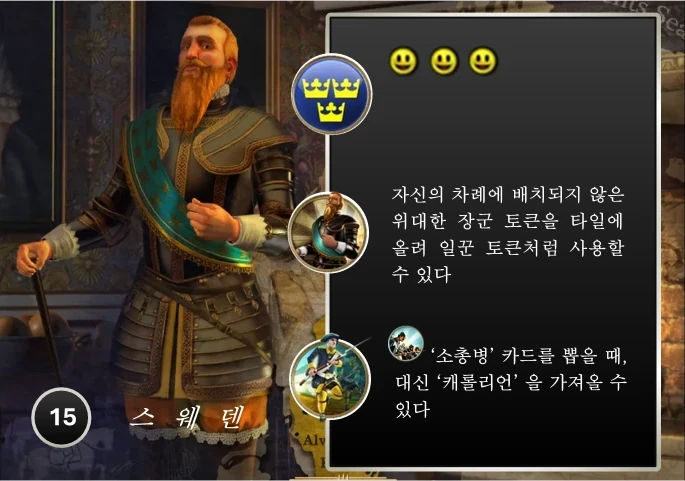
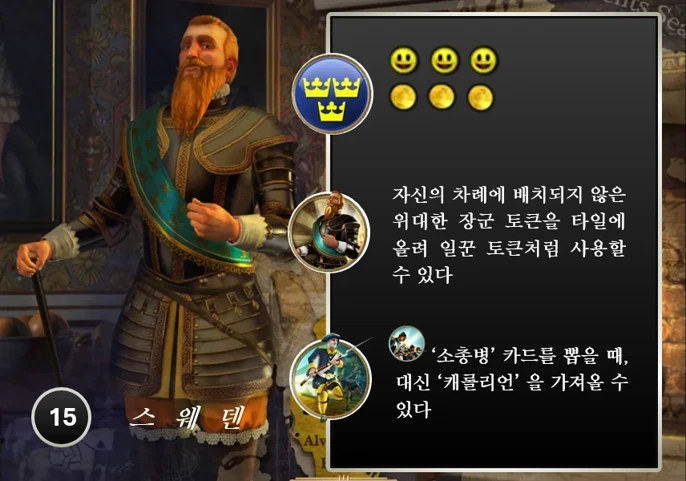
훈족 행복 4, 스웨덴 금 3, 오스만 과학 1, 훈족·스웨덴·오스만 문명 카드 교체
Claude-Session: https://claude.ai/code/session_01RAyYJg3yqsP1EQBtC7udPM

diff --git a/docs/rules.md b/docs/rules.md
@@ -746,12 +746,12 @@
   잉카       20        4      식량 1,   산 타일을 식량    투석병사 (궁수)
                               망치 1    3으로 취급        
 
-  오스만     17        4      금 3      상대의 해안 전용  예니체리
+  오스만     17        4      과학 1    상대의 해안 전용  예니체리
                                         군사 카드를       (머스킷병)
                                         파괴하면 전투 후  
                                         그 카드를 가져옴  
 
-  스웨덴     15        3      없음      배치하지 않은     캐롤리언
+  스웨덴     15        3      금 3      배치하지 않은     캐롤리언
                                         위대한 장군을     (소총병)
                                         일꾼처럼 타일에   
                                         올려 사용         
@@ -773,7 +773,7 @@
                                         대상인 전투에서는 
                                         임피 사용 불가    
 
-  훈족       2         3      문화 1    고유 유닛 2장     공성추 (창병),
+  훈족       2         4      문화 1    고유 유닛 2장     공성추 (창병),
                               (시작)                      궁기병 (전차)
 
   몽골       0         3      문화 1    내 장군이 올라간  케식텐 (기사)
